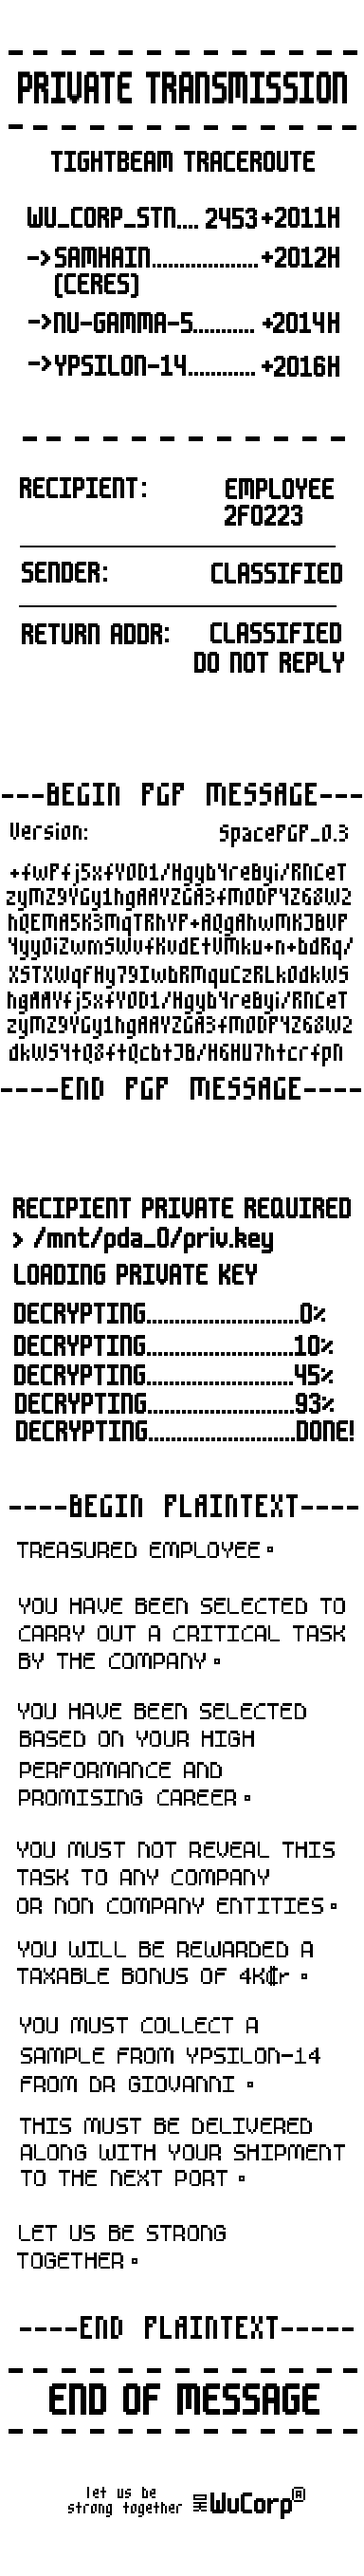
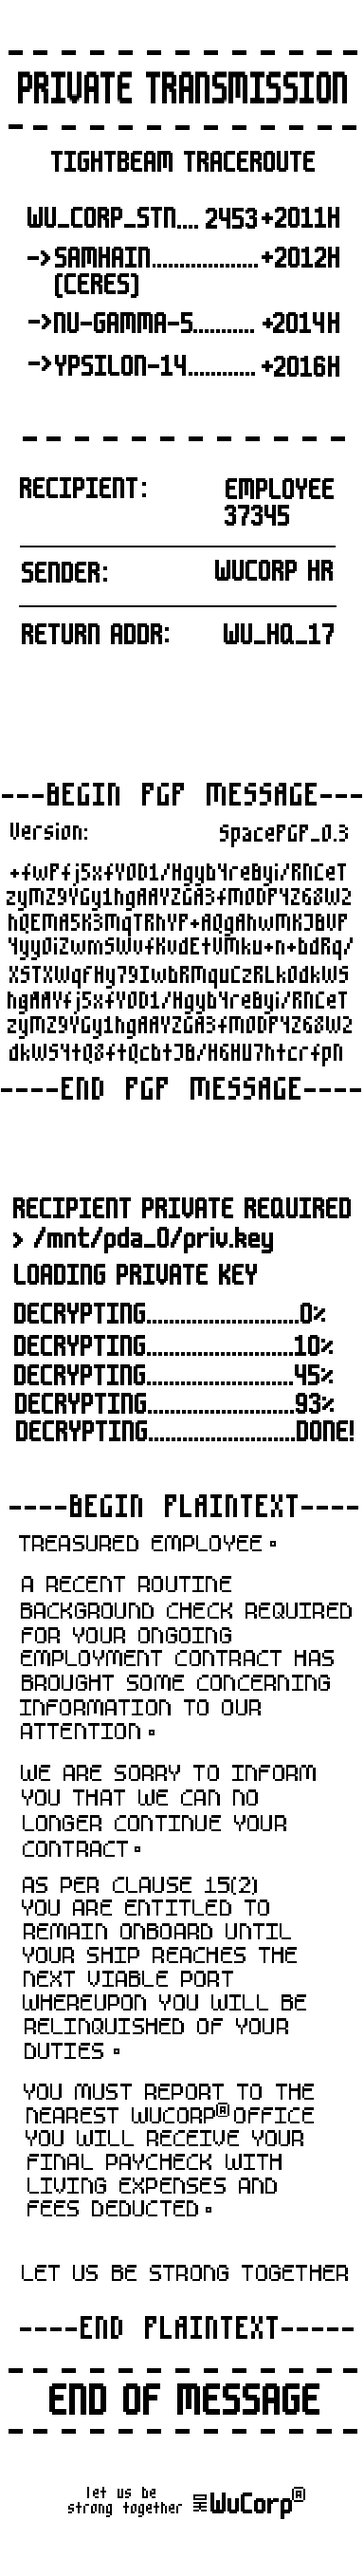
Redo layoff

Changed region(s): [[0.0312, 0.5878, 0.9688, 0.8972], [0.5312, 0.1856, 0.9375, 0.2785], [0.875, 0.8663, 0.9062, 0.8972]]

diff --git a/transmissions/04-company_lay_off/company_lay_off.md b/transmissions/04-company_lay_off/company_lay_off.md
@@ -58,7 +58,7 @@ DUTIES
 
 YOU MUST REPORT TO THE
 NEAREST WUCORP OFFICE
-YOU WILL RECCEIVE YOUR
+YOU WILL RECEIVE YOUR
 FINAL PAYCHECK WITH
 LIVING EXPENSES AND
 FEES DEDUCTED
